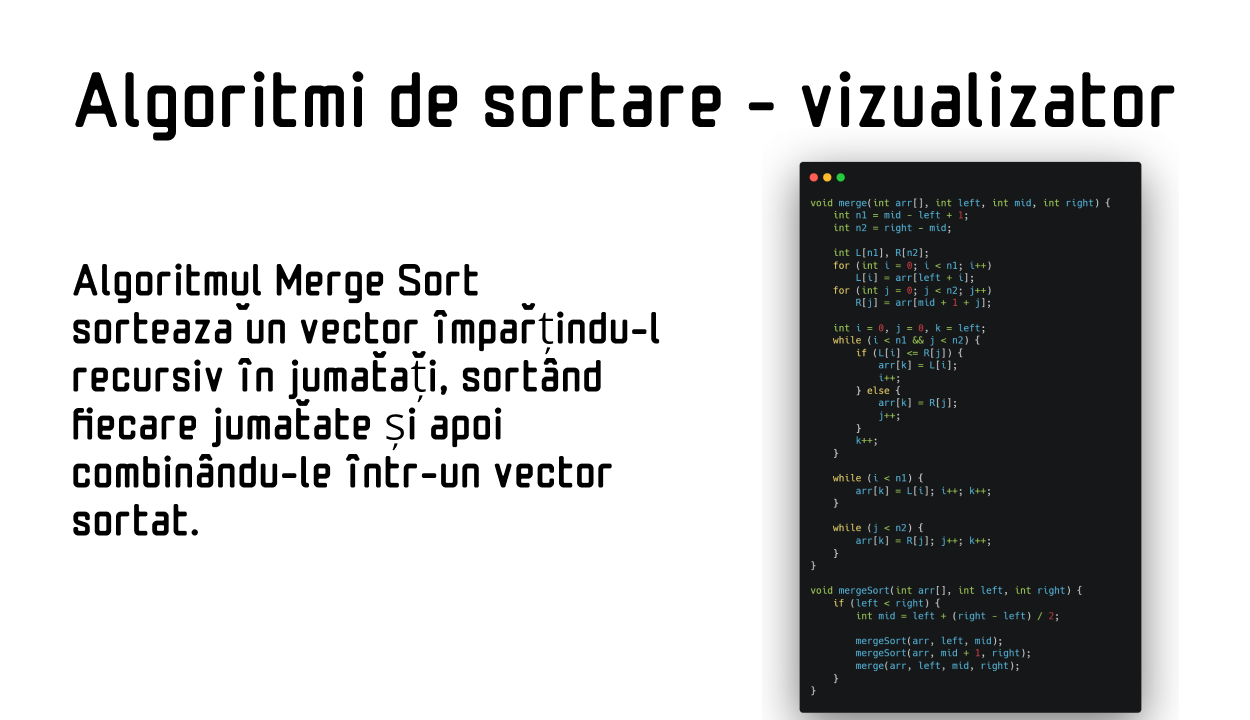
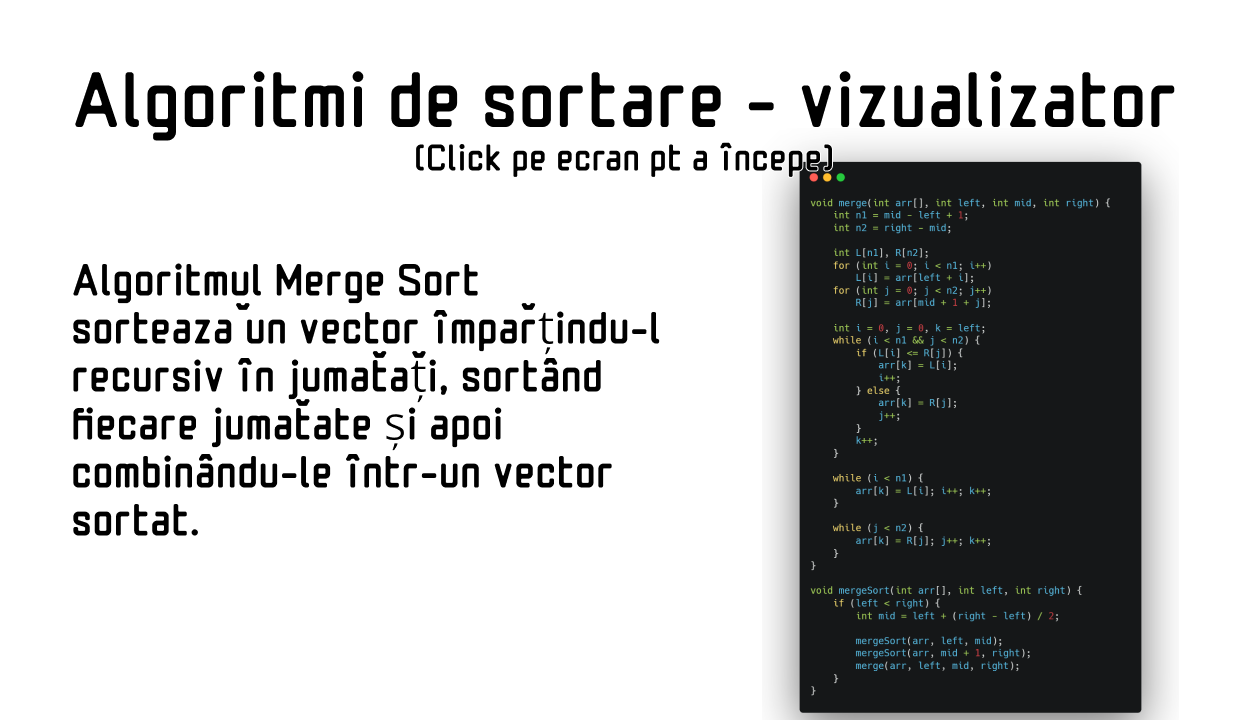
Changed from keyboard input to mouse input

Changed region(s): [[0.312, 0.1833, 0.6864, 0.2444]]

diff --git a/src/main.cpp b/src/main.cpp
@@ -1,7 +1,10 @@
 #include "SDL3/SDL.h"
 #include "SDL3_image/SDL_image.h"
+#include "algorithms/quickSort/quickSort.h"
+#include "algorithms/simpleSort/simpleSort.h"
 #include "arrayFunctions/arrayFunctions.h"
 #include "algorithms/algorithms.h"
+#include "button/Button.h"
 #include "Main.h"
 #include "stdio.h"
 
@@ -20,6 +23,13 @@ SDL_Texture *bubbleSortExpl;
 SDL_Texture *mergeSortExpl;
 SDL_Texture *insertionSortExpl;
 
+Button* buttonsList[6];
+Button quicksortButton;
+Button simpleSortButton;
+Button bubbleSortButton;
+Button mergeSortButton;
+Button insertionSortButton;
+
 enum appState {
   ALGO,
   MAIN_MENU,
@@ -34,20 +44,62 @@ int algoNumber;
 
 enum appState state;
 
+void changeState(int stateID)
+{
+  switch (stateID)
+  {
+    case 1:
+      state = QUICKSORT_EXPL;
+      algoNumber = 1;
+      break;
+    case 2:
+      state = SIMPLESORT_EXPL;
+      algoNumber = 2;
+      break;
+    case 3:
+      state = BUBBLESORT_EXPL;
+      algoNumber = 3;
+      break;
+    case 4:
+      state = MERGESOT_EXPL;
+      algoNumber = 4;
+      break;
+    case 5:
+      state = INSERTIONSORT_EXPL;
+      algoNumber = 5;
+      break;
+  }
+}
+
 int main()
 {
   SDL_Init(SDL_INIT_VIDEO);
   IMG_Init(IMG_INIT_PNG);
   SDL_Window *window = SDL_CreateWindow("Algoritmi de sortare - Vizualizator", SCREEN_WIDTH, SCREEN_HEIGHT, 0);
-  renderer = SDL_CreateRenderer(window, NULL);
-  background = IMG_LoadTexture(renderer, "assets/bg.png");
-  mainMenu = IMG_LoadTexture(renderer, "assets/MainMenu.png");
-  algos    = IMG_LoadTexture(renderer, "assets/Algo.png");
-  quicksortExpl    = IMG_LoadTexture(renderer, "assets/quickSort.png");
-  simpleSortExpl    = IMG_LoadTexture(renderer, "assets/simpleSort.png");
-  bubbleSortExpl    = IMG_LoadTexture(renderer, "assets/bubbleSort.png");
-  mergeSortExpl    = IMG_LoadTexture(renderer, "assets/mergeSort.png");
-  insertionSortExpl    = IMG_LoadTexture(renderer, "assets/insertionSort.png");
+  renderer           = SDL_CreateRenderer(window, NULL);
+  SDL_SetRenderDrawBlendMode(renderer, SDL_BLENDMODE_BLEND);
+
+  background         = IMG_LoadTexture(renderer, "assets/bg.png");
+  mainMenu           = IMG_LoadTexture(renderer, "assets/MainMenu.png");
+  algos              = IMG_LoadTexture(renderer, "assets/Algo.png");
+  quicksortExpl      = IMG_LoadTexture(renderer, "assets/quickSort.png");
+  simpleSortExpl     = IMG_LoadTexture(renderer, "assets/simpleSort.png");
+  bubbleSortExpl     = IMG_LoadTexture(renderer, "assets/bubbleSort.png");
+  mergeSortExpl      = IMG_LoadTexture(renderer, "assets/mergeSort.png");
+  insertionSortExpl  = IMG_LoadTexture(renderer, "assets/insertionSort.png");
+
+  quicksortButton    = createButton(100, 270, 310, 50, changeState);
+  simpleSortButton   = createButton(95, 336, 360, 50, changeState);
+  bubbleSortButton   = createButton(95, 400, 360, 50, changeState);
+  mergeSortButton    = createButton(95, 460, 350, 60, changeState);
+  insertionSortButton= createButton(95, 525, 415, 50, changeState);
+
+  buttonsList[1] = &quicksortButton;
+  buttonsList[2] = &simpleSortButton;
+  buttonsList[3] = &bubbleSortButton;
+  buttonsList[4] = &mergeSortButton;
+  buttonsList[5] = &insertionSortButton;
+
   printf("%s\n", SDL_GetError());
   
   state = MAIN_MENU;
@@ -65,6 +117,7 @@ int main()
     handleEvents(array, n);
 
     //update
+    updateMousePosition();
     if (state == ALGO)
       if (!isArraySorted(array, n))
       {
@@ -119,6 +172,9 @@ void renderAndWait(int *array, int n)
   SDL_RenderClear(renderer);
   SDL_RenderTexture(renderer, background, &screen, &screen);
 
+  for(int i = 1; i < 6; i++)
+    buttonsList[i]->isVisible = 0;
+
   switch (state) {
     case INSERTIONSORT_EXPL:
       SDL_RenderTexture(renderer, insertionSortExpl, &screen, &screen);
@@ -140,13 +196,20 @@ void renderAndWait(int *array, int n)
       break;
     case SELECTION:
       SDL_RenderTexture(renderer, algos, &screen, &screen);
+      buttonsList[1]->isVisible = 1;
+      buttonsList[2]->isVisible = 1;
+      buttonsList[3]->isVisible = 1;
+      buttonsList[4]->isVisible = 1;
+      buttonsList[5]->isVisible = 1;
       break;
     case ALGO:
       renderArray(renderer, array, n);
       break;
-  
   }
 
+    for(int i = 1; i < 6; i++)
+      if (buttonsList[i]->isVisible)
+        renderButton(renderer, buttonsList[i]);
   SDL_RenderPresent(renderer);
 
   //fps controll
@@ -160,65 +223,40 @@ void handleEvents(int *array, int n)
 {
   while (SDL_PollEvent(&event))
   {
-    switch (event.type) {
-      case SDL_EVENT_QUIT:
+    if (event.type == SDL_EVENT_QUIT)
+    {
         isRunning = SDL_FALSE;
         forceSortArray(array, n);
+    }
+    if (event.type == SDL_EVENT_MOUSE_BUTTON_UP)
+    {
+      switch (state) {
+      case MAIN_MENU:
+        state = SELECTION;
         break;
-      case SDL_EVENT_KEY_UP:
-        switch (state) {
-          case MAIN_MENU:
-            state = SELECTION;
+      case ALGO:
+        forceSortArray(array, n);
+        state = SELECTION;
+        break;
+      case SELECTION:
+        for(int i = 1; i < 6; i++)
+        {
+          if (buttonsList[i]->isVisible && isMouseInsideButton(buttonsList[i]))
+          {
+            buttonsList[i]->clickFunction(i);
+            shuffleAray(array, n);
             break;
-          case ALGO:
-            forceSortArray(array, n);
-            state = SELECTION;
-            break;
-          case SELECTION:
-            // printf("%d\n", event.key.keysym.sym);
-            switch (event.key.keysym.sym) {
-              case SDLK_1:
-              case 131072:
-                algoNumber = 1;
-                shuffleAray(array, n);
-                state = QUICKSORT_EXPL;
-                break;
-              case SDLK_2:
-              case 196608:
-                algoNumber = 2;
-                shuffleAray(array, n);
-                state = SIMPLESORT_EXPL;
-                break;
-              case SDLK_3:
-              case 262144:
-                algoNumber = 3;
-                shuffleAray(array, n);
-                state = BUBBLESORT_EXPL;
-                break;
-              case SDLK_4:
-              case 327680:
-                algoNumber = 4;
-                shuffleAray(array, n);
-                state = MERGESOT_EXPL;
-                break;
-              case SDLK_5:
-              case 393216:
-                algoNumber = 5;
-                shuffleAray(array, n);
-                state = INSERTIONSORT_EXPL;
-                break;
-              default: break;
-            }
-            break;
-          case QUICKSORT_EXPL:
-          case SIMPLESORT_EXPL:
-          case BUBBLESORT_EXPL:
-          case MERGESOT_EXPL:
-          case INSERTIONSORT_EXPL:
-            state = ALGO;
-            break;
+          }
         }
         break;
+      case QUICKSORT_EXPL:
+      case SIMPLESORT_EXPL:
+      case BUBBLESORT_EXPL:
+      case MERGESOT_EXPL:
+      case INSERTIONSORT_EXPL:
+        state = ALGO;
+        break;
+      }
     }
   }
 }

diff --git a/src/button/Button.cpp b/src/button/Button.cpp
@@ -1,0 +1,46 @@
+#include "SDL3/SDL.h"
+#include "Button.h"
+
+static float mouseX;
+static float mouseY;
+
+Button createButton(int x, int y, int w, int h, void (*clickFunction)(int))
+{
+	Button button;
+	button.rect.x = x;
+	button.rect.y = y;
+	button.rect.w = w;
+	button.rect.h = h;
+	button.isVisible = 0;
+
+	button.clickFunction = clickFunction;
+
+	return button;
+}
+
+void updateMousePosition()
+{
+	SDL_GetMouseState(&mouseX, &mouseY);
+}
+
+int isMouseInsideButton(Button *button)
+{
+	if (mouseX >= button->rect.x && mouseX <= button->rect.x + button->rect.w && 
+		mouseY >= button->rect.y && mouseY <= button->rect.y + button->rect.h)
+		return 1;
+	return 0;
+}
+
+// void pressButton(Button *button)
+// {
+// 	button->clickFunction();
+// }
+
+void renderButton(SDL_Renderer *renderer, Button *button)
+{
+	if (!isMouseInsideButton(button)) return;
+
+	SDL_SetRenderDrawColor(renderer, 200, 200, 200, 100);
+	SDL_RenderFillRect(renderer, &button->rect);
+
+}

diff --git a/src/button/Button.h b/src/button/Button.h
@@ -1,0 +1,17 @@
+#pragma once
+#ifndef CUSTOM_BUTTON
+#define CUSTOM_BUTTON
+
+typedef struct 
+{
+	SDL_FRect rect;
+	void (*clickFunction)(int);
+	int isVisible;
+} Button;
+
+Button createButton(int x, int y, int w, int h, void (*clickFunction)(int n) );
+void updateMousePosition();
+void renderButton(SDL_Renderer *renderer, Button *button);
+int isMouseInsideButton(Button *button);
+// void pressButton(Button *button);
+#endif

diff --git a/src/algorithms/bubbleSort/bubbleSort.cpp b/src/algorithms/bubbleSort/bubbleSort.cpp
@@ -5,9 +5,8 @@
 void bubbleSort(int arr[], int n) {
   for (int i = 0; i < n - 1; i++) {
     for (int j = 0; j < n - i - 1; j++) {
+      if (!isGameRunning()) return;
       if (arr[j] > arr[j + 1]) {
-
-        if (!isGameRunning()) return;
         setSelectedId(j);
         switchArrayItemsAndRender(arr, n, j, j + 1);
       }
